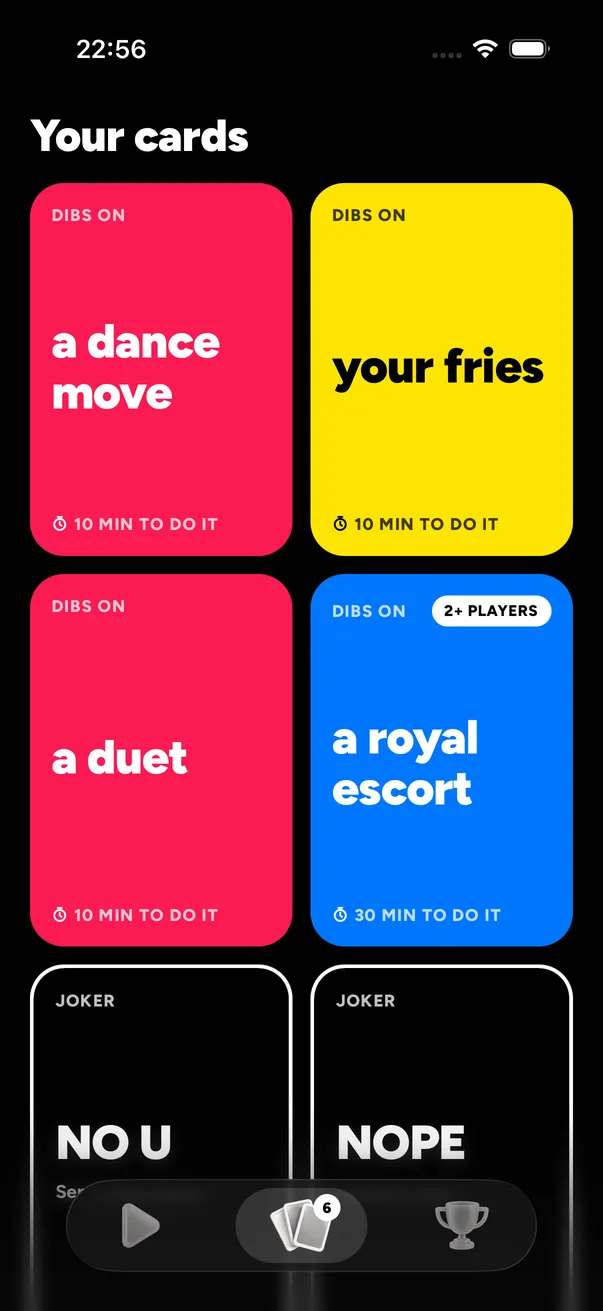
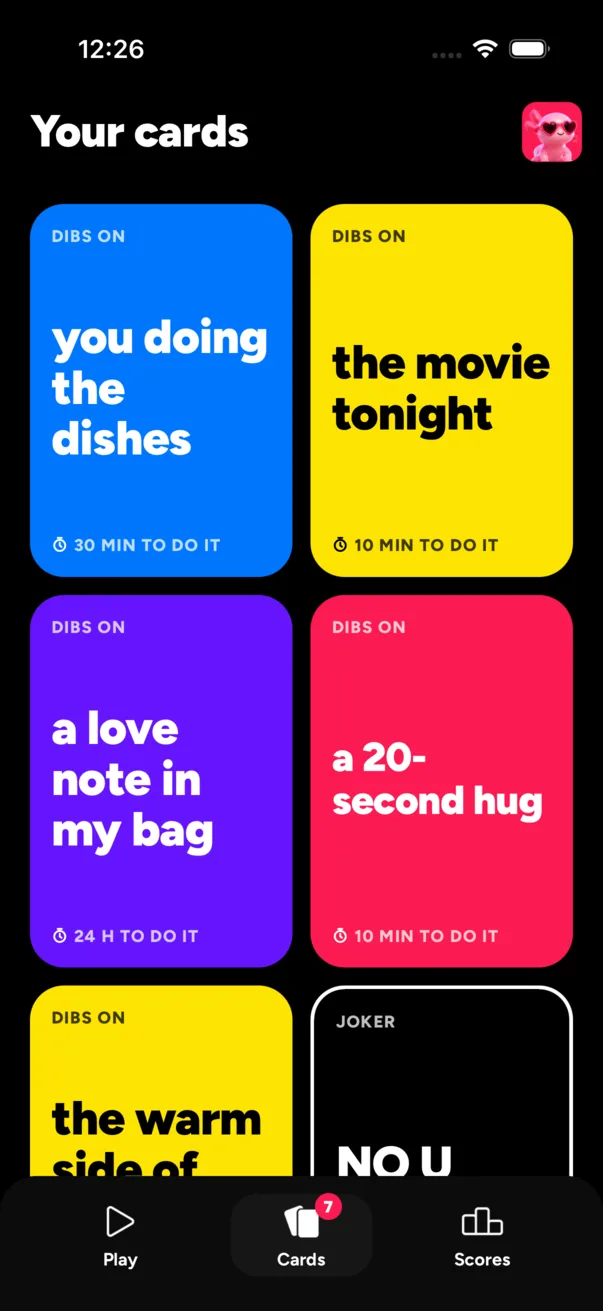
feat: visuels du site alignés sur l'app actuelle (écran Your cards du 07/10, tuiles de groupe à petite carte blanche et couleurs de l'app, section packs avec l'écran Pick your packs, lapin aux oreilles entières), icônes 3D retirées

diff --git a/index.html b/index.html
@@ -43,7 +43,7 @@
       <p class="small">Free to play. Dibs+ unlocks every deck: 3 days free, then $4.99/week or $29.99/year. Only the host needs it.</p>
     </div>
     <div class="phone">
-      <img class="screen" src="img/app-cards.webp" width="603" height="1311" alt="The Your cards screen of Dibs, with colorful cards like Dibs on a dance move and Dibs on your fries">
+      <img class="screen" src="img/app-cards.webp" width="603" height="1311" alt="The Your cards screen of Dibs, with cards like Dibs on you doing the dishes and Dibs on the movie tonight">
       <img class="sticker s1" src="img/renard.webp" alt="">
       <img class="sticker s2" src="img/dino.webp" alt="">
     </div>
@@ -61,10 +61,24 @@
   <section class="wrap">
     <h2>Play with your people</h2>
     <div class="groups">
-      <div class="group p"><span>Couple</span><img src="img/couple.webp" alt=""></div>
-      <div class="group v"><span>Friends</span><img src="img/friends.webp" alt=""></div>
-      <div class="group b"><span>Family</span><img src="img/family.webp" alt=""></div>
+      <div class="group y"><div><span>Couple</span><small>Little wins, big laughs.</small></div><div class="mini"><b>DIBS ON</b>a slow dance in the kitchen</div></div>
+      <div class="group v"><div><span>Friends</span><small>Call dibs on the crew.</small></div><div class="mini"><b>DIBS ON</b>your fries</div></div>
+      <div class="group p"><div><span>Family</span><small>Rides, remote, rules.</small></div><div class="mini"><b>DIBS ON</b>the remote</div></div>
     </div>
+  </section>
+
+  <section class="wrap packs">
+    <div>
+      <h2>A pack for every night.</h2>
+      <p class="lead">22 packs on top of the free decks. Pick one or mix a few for your game.</p>
+      <div class="chips">
+        <span class="chip v">Halloween</span><span class="chip p">Spicy</span><span class="chip y">Date night</span><span class="chip b">Real talk</span>
+        <span class="chip y">In public</span><span class="chip b">Party</span><span class="chip p">Girls night</span><span class="chip b">Boys night</span>
+        <span class="chip p">Roommates</span><span class="chip y">Road trip</span><span class="chip y">Kids vs Parents</span><span class="chip b">Holidays</span>
+      </div>
+      <p class="small">Halloween is free until Nov 2. Every other pack comes with Dibs+.</p>
+    </div>
+    <div class="phone"><img class="screen" src="img/app-packs.webp" width="603" height="1311" alt="The Pick your packs screen of Dibs, with the Friends deck and the Halloween, In public, Party and Girls night packs"></div>
   </section>
 
   <section class="wrap">

diff --git a/styles.css b/styles.css
@@ -70,9 +70,18 @@ section { padding-block: 48px; }
 .b { background: var(--blue); color: #fff; }
 
 .groups { display: grid; grid-template-columns: repeat(3, 1fr); gap: 16px; }
-.group { border-radius: var(--radius); padding: 20px 24px; display: flex; align-items: center; justify-content: space-between; min-height: 112px; }
-.group span { font-weight: 900; font-size: 28px; letter-spacing: -0.02em; }
-.group img { width: 76px; height: 76px; }
+.group { border-radius: var(--radius); padding: 20px 20px 20px 24px; display: flex; align-items: center; justify-content: space-between; gap: 12px; min-height: 128px; }
+.group span { display: block; font-weight: 900; font-size: 28px; letter-spacing: -0.02em; line-height: 1.1; }
+.group small { display: block; font-weight: 600; font-size: 14px; opacity: 0.85; margin-top: 4px; }
+/* Petite carte blanche, comme les tuiles de groupe de l'app. */
+.mini { flex: none; width: 112px; min-height: 76px; background: #fff; color: #000; border-radius: 14px; padding: 10px 12px; transform: rotate(5deg); font-weight: 900; font-size: 14px; line-height: 1.15; box-shadow: 0 6px 16px rgba(0,0,0,0.25); }
+.mini b { display: block; font-weight: 800; font-size: 9px; letter-spacing: 0.08em; color: #6E6E73; margin-bottom: 6px; }
+
+.packs { display: grid; grid-template-columns: 1.1fr 0.9fr; gap: 48px; align-items: center; }
+.packs .lead { color: var(--text2); font-size: 20px; margin: -8px 0 24px; max-width: 32ch; }
+.packs .small { color: var(--text2); font-size: 14px; margin-top: 20px; }
+.chips { display: flex; flex-wrap: wrap; gap: 10px; max-width: 520px; }
+.chip { border-radius: 999px; padding: 8px 16px; font-weight: 800; font-size: 15px; }
 
 .promise { background: var(--surface); border-radius: 32px; padding: 40px; display: grid; grid-template-columns: 1fr auto; gap: 32px; align-items: center; }
 .promise p { color: var(--text2); font-size: 18px; max-width: 46ch; }
@@ -116,7 +125,8 @@ footer a:hover { color: var(--text); }
 
 @media (max-width: 820px) {
   .hero { grid-template-columns: 1fr; padding-block-start: 16px; gap: 40px; }
-  .steps, .groups { grid-template-columns: 1fr; }
+  .steps, .groups, .packs { grid-template-columns: 1fr; }
+  .packs { gap: 32px; }
   .tile { min-height: 0; }
   .tile h3 { margin-top: 24px; }
   .promise { grid-template-columns: 1fr; padding: 28px 24px; }
